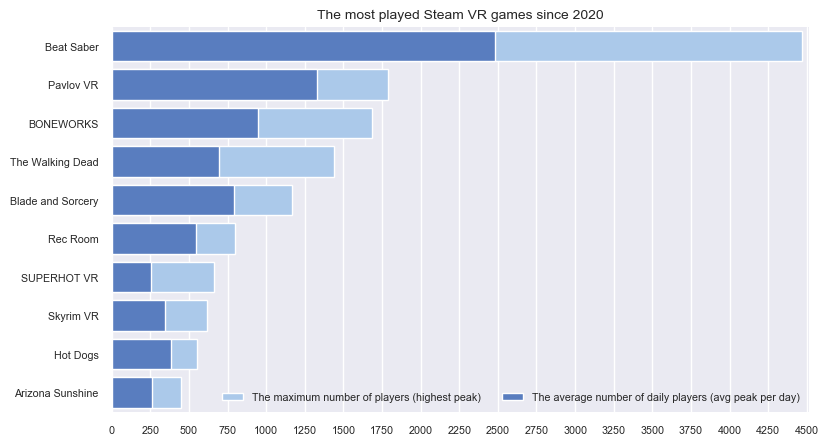
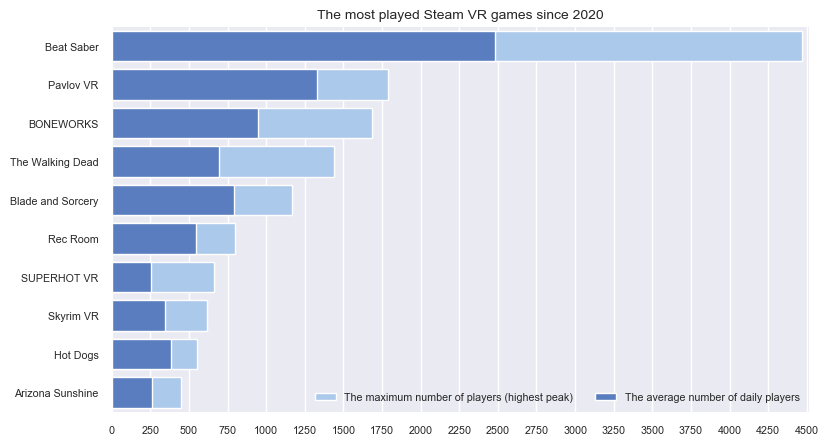
update

Changed region(s): [[0.2717, 0.8764, 0.9662, 0.9056]]

diff --git a/scripts/create_charts.py b/scripts/create_charts.py
@@ -60,7 +60,7 @@ def top10_2020(conn):
     # Plot the average number of players
     sns.set_color_codes("muted")
     fig = sns.barplot(x="avg_players", y="game", data=top10,
-                      label="The average number of daily players (avg peak per day)", color="b")
+                      label="The average number of daily players", color="b")
     fig.axes.set_title("The most played Steam VR games since 2020", fontsize=10)
     fig.set_xlabel("")
     fig.set_ylabel("")
